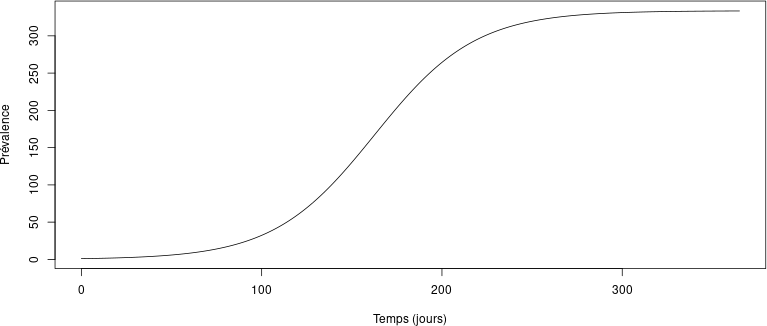
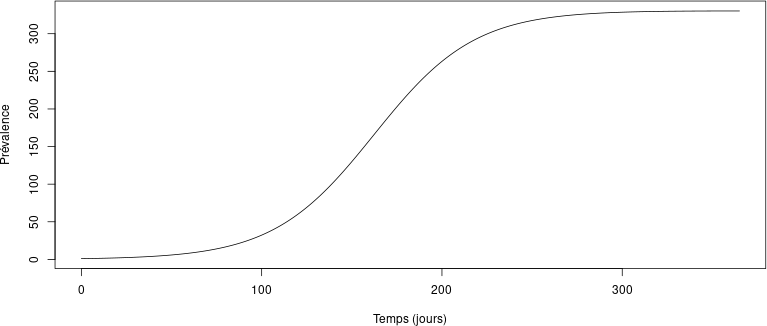
update

diff --git a/SLIDES_MD/cours-04-modele-SIS.md b/SLIDES_MD/cours-04-modele-SIS.md
@@ -769,29 +769,26 @@ library(deSolve)
 rhs_SIS <- function(t, x, p) {
   with(as.list(c(x, p)), {
     N = S + I
-    dS = b + gamma * I - d * S - beta * S * I / N
+    dS = d*(N-S) + gamma * I - d * S - beta * S * I / N
     dI = beta * S * I / N - (d + gamma) * I
     return(list(c(dS, dI)))
   })
 }
+# Paramètres "connus"
 d = 1/(80 * 365.25)
 gamma = 1/14
-# On règle la natalité pour que b/d = 1000
-b = 1000 * d
 # On règle beta pour que R_0 = 1.5
-beta = 1.5 * (d + gamma)
-params = list(b = b, d = d, gamma = gamma, beta = beta)
+R_0 = 1.5
+beta = R_0 * (d + gamma)
+params = list(d = d, gamma = gamma, beta = beta)
 IC = c(S = 1000, I = 1)
 times = seq(0, 365, 1)
-sol <- ode(IC, times, rhs_SIS, params)
+# On appelle l'intégrateur numérique
+sol <- ode(y = IC, times = times, func = rhs_SIS, 
+           parms = params, method = "ode45")
 ```
 
 ---
-
-```R
-plot(sol[, "time"], sol[, "I"], type = "l",
-     xlab = "Temps (jours)", ylab = "Prévalence")
-```
 
 ![height:500px center](https://raw.githubusercontent.com/julien-arino/petit-cours-epidemio-mathematique/main/FIGS/sol_endemic_SIS_R015.png)
 
